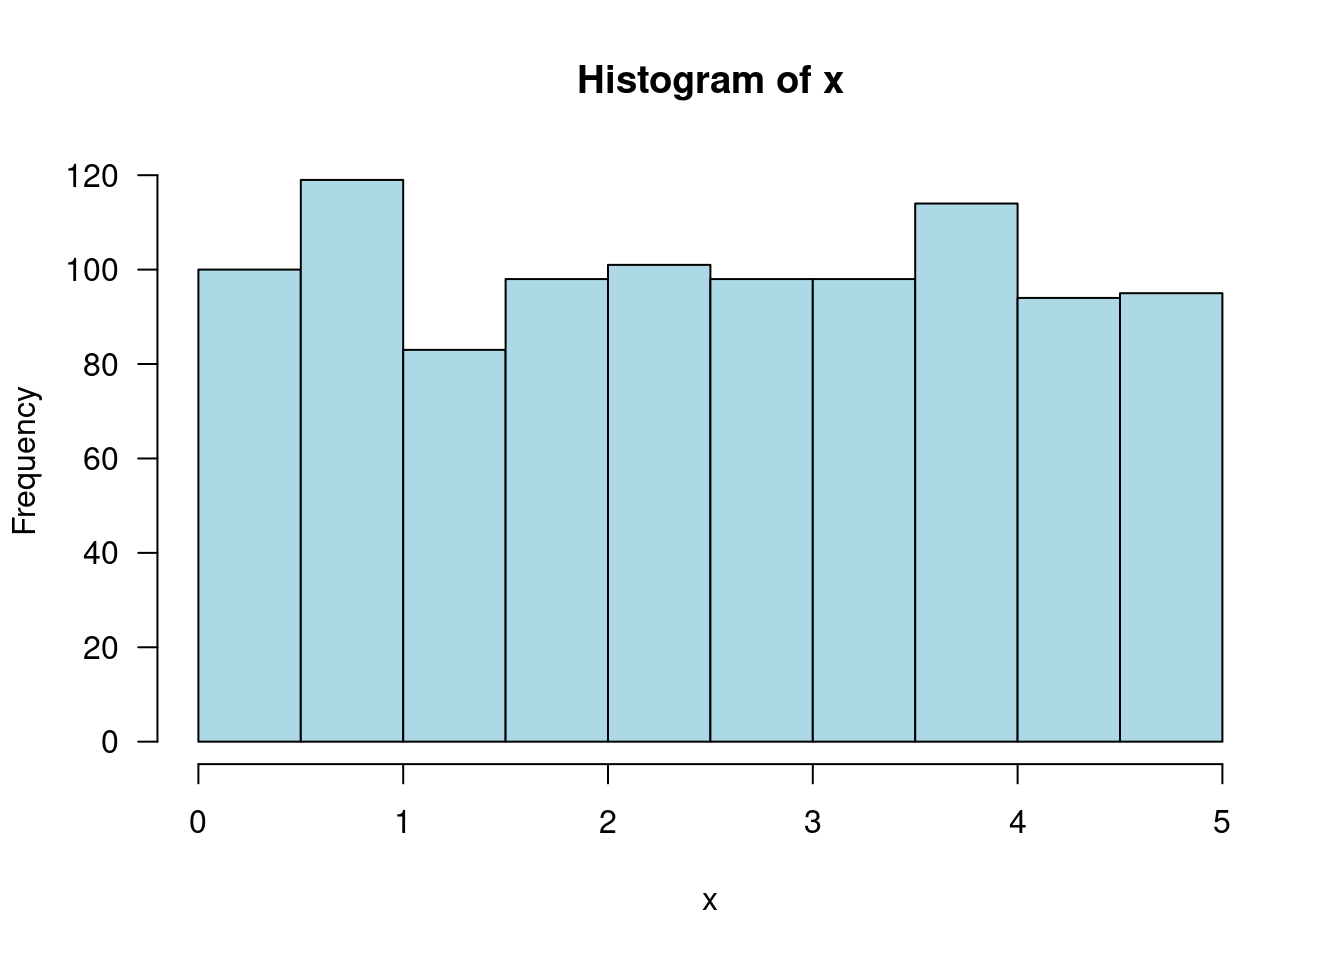
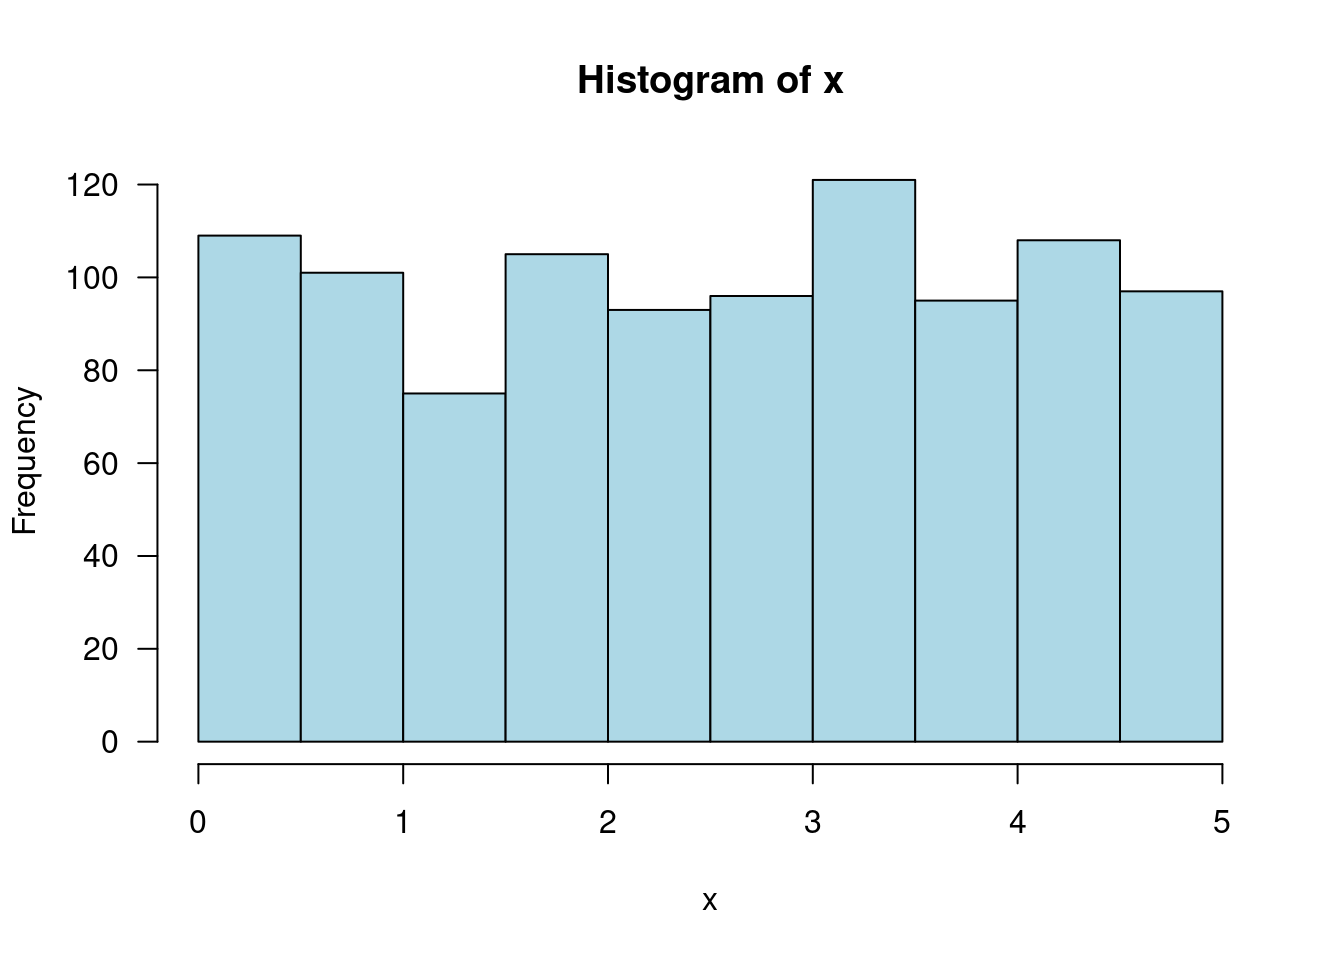
Deploying to gh-pages from @ jtr13/1201@dd909cbd885aa8c6da5c4ec2a90fa87310da2de0 🚀

diff --git a/ch.-4-continuous-random-variables-and-probability-distributions.html b/ch.-4-continuous-random-variables-and-probability-distributions.html
@@ -81,12 +81,12 @@
 <p><span class="math inline">\(f(x) = .2\)</span> for <span class="math inline">\(0 \leq x \leq 5\)</span>, 0 otherwise.</p>
 <div class="sourceCode" id="cb158"><pre class="downlit sourceCode r">
 <code class="sourceCode R"><span><span class="fu"><a href="https://rdrr.io/r/stats/Uniform.html">runif</a></span><span class="op">(</span>n <span class="op">=</span> <span class="fl">1</span>, min <span class="op">=</span> <span class="fl">0</span>, max <span class="op">=</span> <span class="fl">5</span><span class="op">)</span></span></code></pre></div>
-<pre><code>## [1] 2.738017</code></pre>
+<pre><code>## [1] 4.930087</code></pre>
 <p>Take the average of 1000 picks:</p>
 <div class="sourceCode" id="cb160"><pre class="downlit sourceCode r">
 <code class="sourceCode R"><span><span class="va">x</span> <span class="op">&lt;-</span> <span class="fu"><a href="https://rdrr.io/r/stats/Uniform.html">runif</a></span><span class="op">(</span>n <span class="op">=</span> <span class="fl">1000</span>, min <span class="op">=</span> <span class="fl">0</span>, max <span class="op">=</span> <span class="fl">5</span><span class="op">)</span></span>
 <span><span class="fu"><a href="https://rdrr.io/r/base/mean.html">mean</a></span><span class="op">(</span><span class="va">x</span><span class="op">)</span></span></code></pre></div>
-<pre><code>## [1] 2.48347</code></pre>
+<pre><code>## [1] 2.521499</code></pre>
 <p>Draw a histogram of the 1000 picks:</p>
 <div class="sourceCode" id="cb162"><pre class="downlit sourceCode r">
 <code class="sourceCode R"><span><span class="fu"><a href="https://rdrr.io/r/graphics/hist.html">hist</a></span><span class="op">(</span><span class="va">x</span>, las <span class="op">=</span> <span class="fl">1</span>, col <span class="op">=</span> <span class="st">"lightblue"</span><span class="op">)</span></span></code></pre></div>

diff --git a/ch.-1-descriptive-statistics.html b/ch.-1-descriptive-statistics.html
@@ -76,12 +76,12 @@
 <p><strong>Ex:</strong> To generate a sample of 6 numbers from the integers between 1 and 20:</p>
 <div class="sourceCode" id="cb26"><pre class="downlit sourceCode r">
 <code class="sourceCode R"><span><span class="fu"><a href="https://rdrr.io/r/base/sample.html">sample</a></span><span class="op">(</span>x <span class="op">=</span> <span class="fl">1</span><span class="op">:</span><span class="fl">20</span>, size  <span class="op">=</span> <span class="fl">6</span><span class="op">)</span></span></code></pre></div>
-<pre><code>## [1]  8  9 10  3 12  1</code></pre>
+<pre><code>## [1] 13  6  9  7  3  1</code></pre>
 <p>Note: this syntax assumes that there is no replacement (it won’t pick the same number twice).
 If you want to sample <em>with</em> replacement use the following:</p>
 <div class="sourceCode" id="cb28"><pre class="downlit sourceCode r">
 <code class="sourceCode R"><span><span class="fu"><a href="https://rdrr.io/r/base/sample.html">sample</a></span><span class="op">(</span>x <span class="op">=</span> <span class="fl">1</span><span class="op">:</span><span class="fl">20</span>, size <span class="op">=</span> <span class="fl">8</span>, replace <span class="op">=</span> <span class="cn">TRUE</span><span class="op">)</span></span></code></pre></div>
-<pre><code>## [1] 19  9  4  8  3 20 15  6</code></pre>
+<pre><code>## [1] 12 17 20  3  8  9 16  2</code></pre>
 </div>
 <div id="pictorial-and-tabular-methods-in-descriptive-statistics" class="section level2 unnumbered">
 <h2>1.2 Pictorial and Tabular Methods in Descriptive Statistics<a class="anchor" aria-label="anchor" href="#pictorial-and-tabular-methods-in-descriptive-statistics"><i class="fas fa-link"></i></a>

diff --git a/ch.-12-linear-regression.html b/ch.-12-linear-regression.html
@@ -77,7 +77,7 @@
 <h2>12.2 Estimating Model Parameters<a class="anchor" aria-label="anchor" href="#estimating-model-parameters"><i class="fas fa-link"></i></a>
 </h2>
 <p>Formulas to know from p. 498:</p>
-<p><span class="math inline">\(b_1 = \dfrac{\sum(x_i -\overline{x})(y_i - \overline{y})}{\sum(x_i - \overline{x})^2}\)</span> and <span class="math inline">\(b_0 = \overline{y} - b_1 \overline{x}\)</span></p>
+<p><span class="math inline">\(b_1 = \dfrac{\sum(x_i -\overline{x})(y_i - \overline{y})}{\sum(x_i - \overline{x})^2} = \frac{S_xy}{S_xx}\)</span> and <span class="math inline">\(b_0 = \overline{y} - b_1 \overline{x}\)</span></p>
 <p>Formula to know from p. 502:</p>
 <p><span class="math inline">\(SSE = \sum(y_i - \hat{y_i})^2\)</span></p>
 <p>Formulas to know from p. 504:</p>
